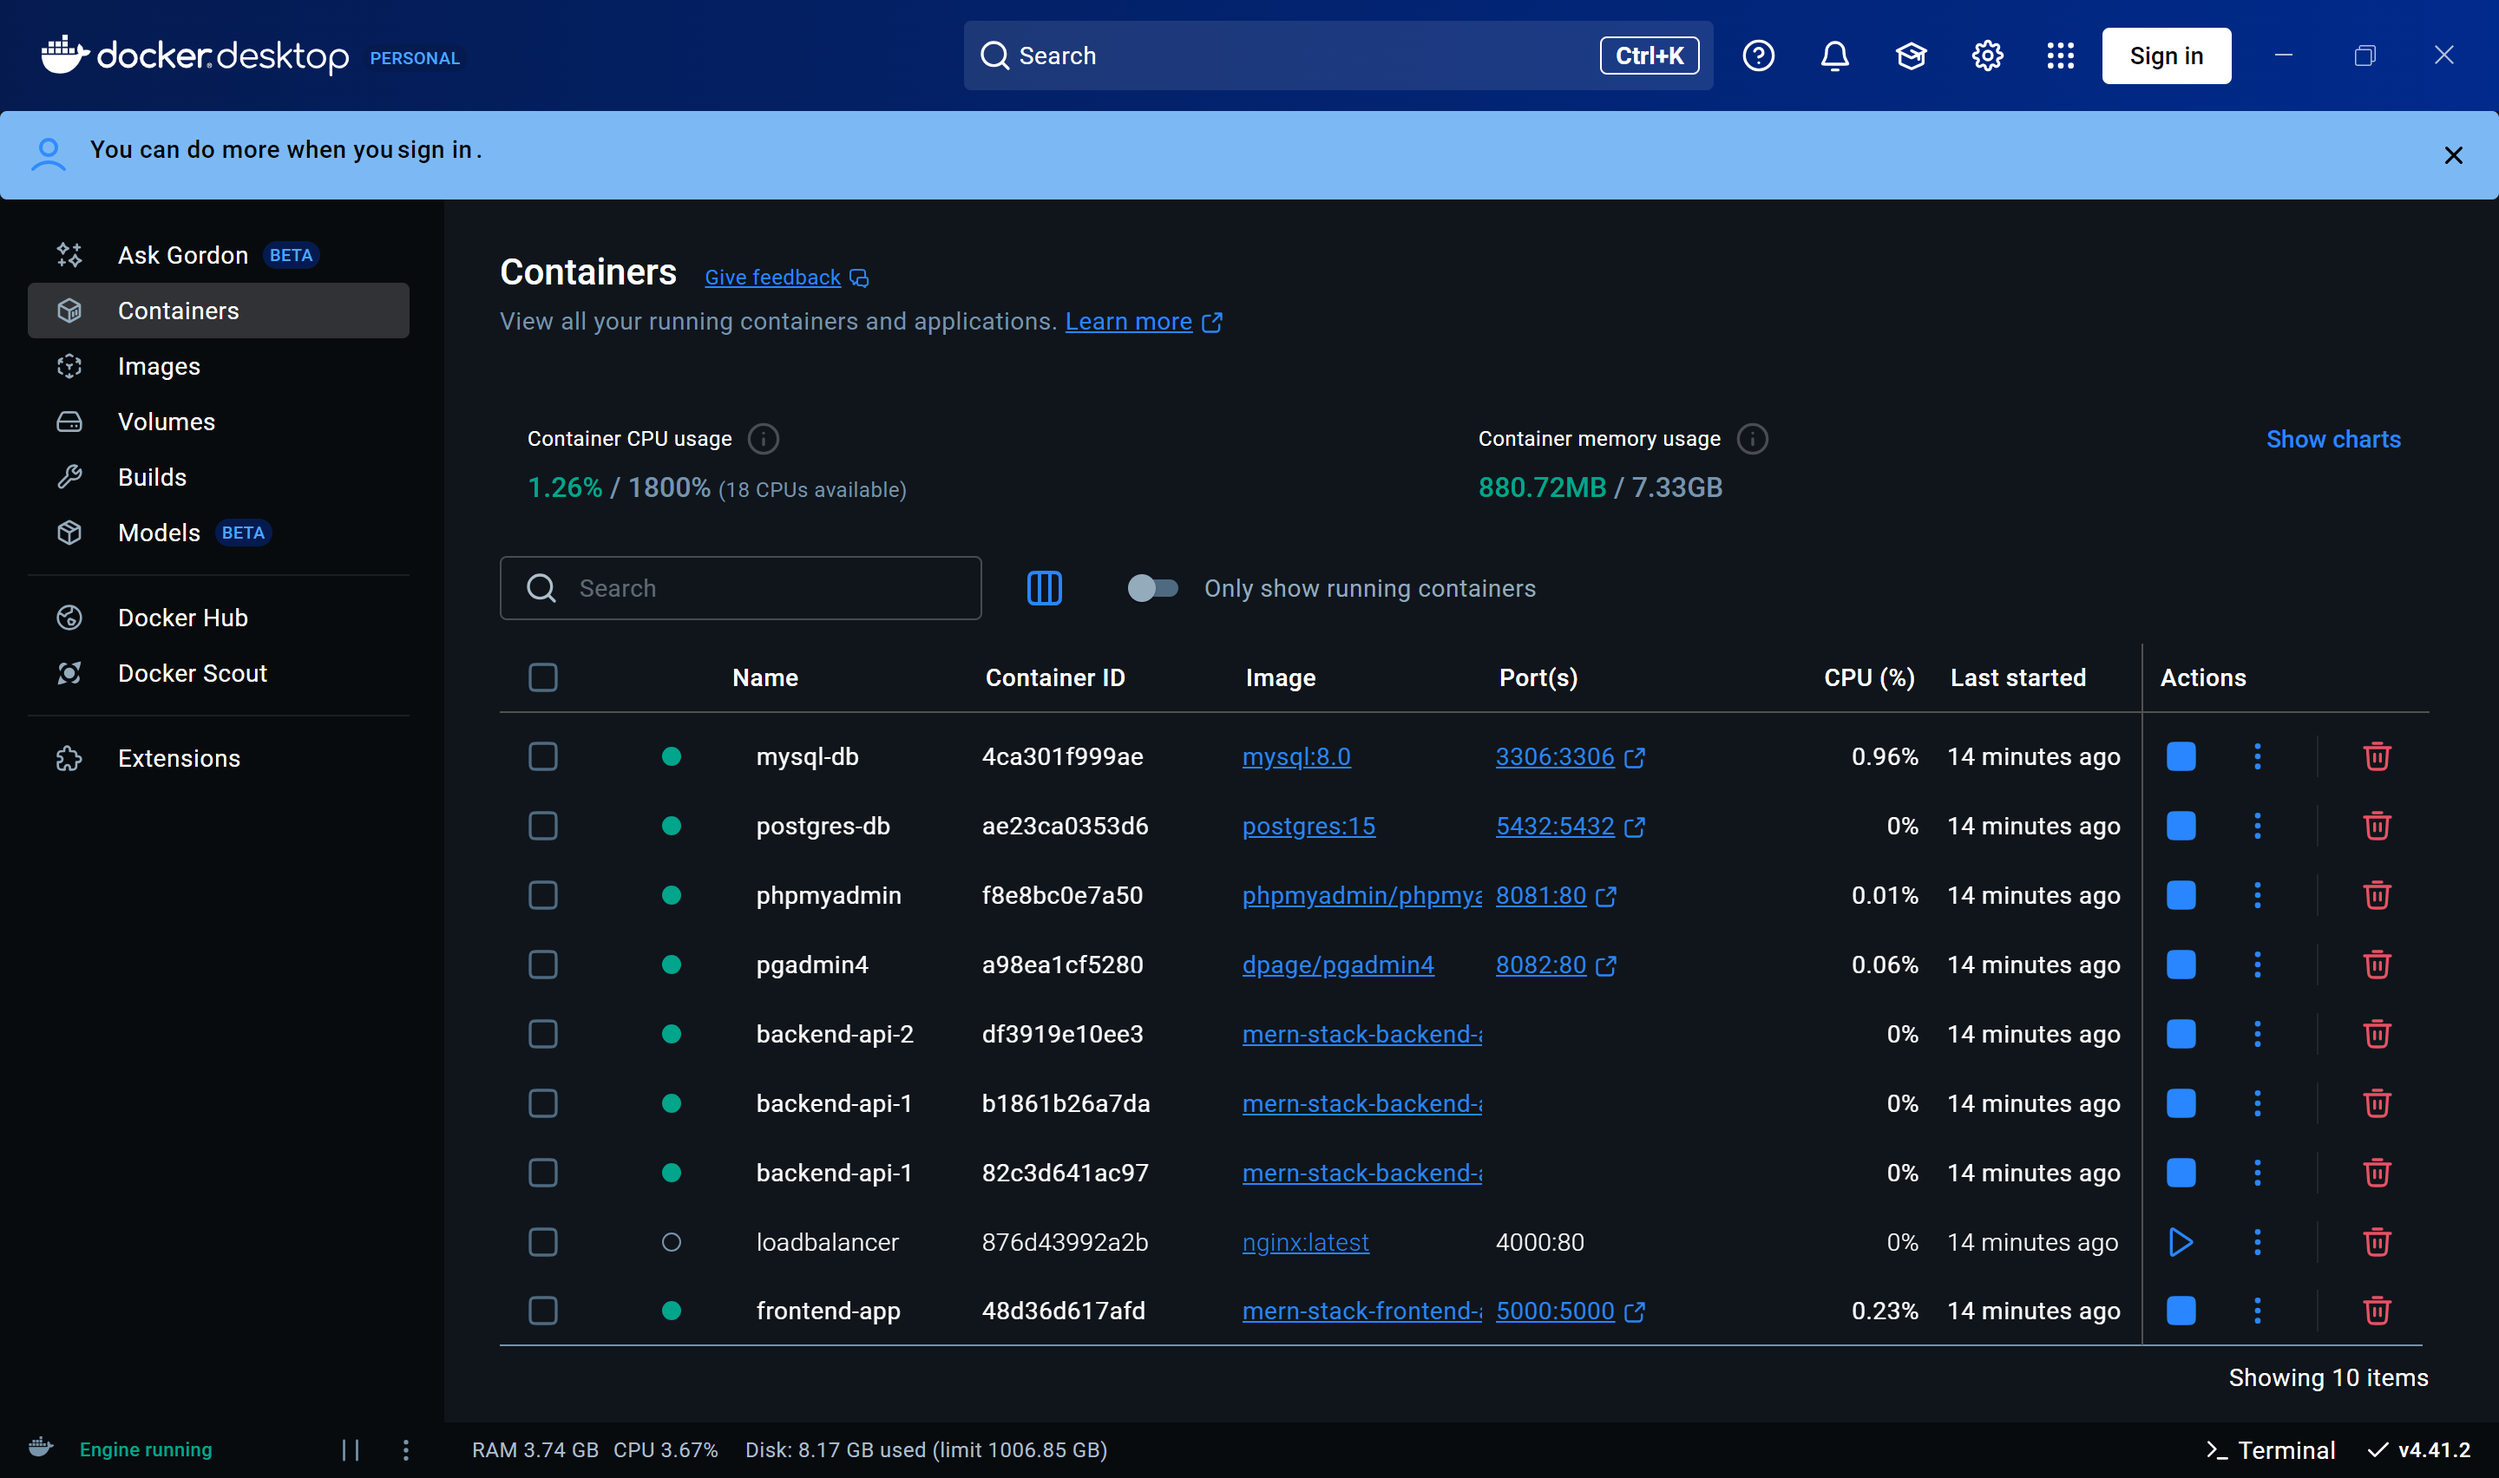
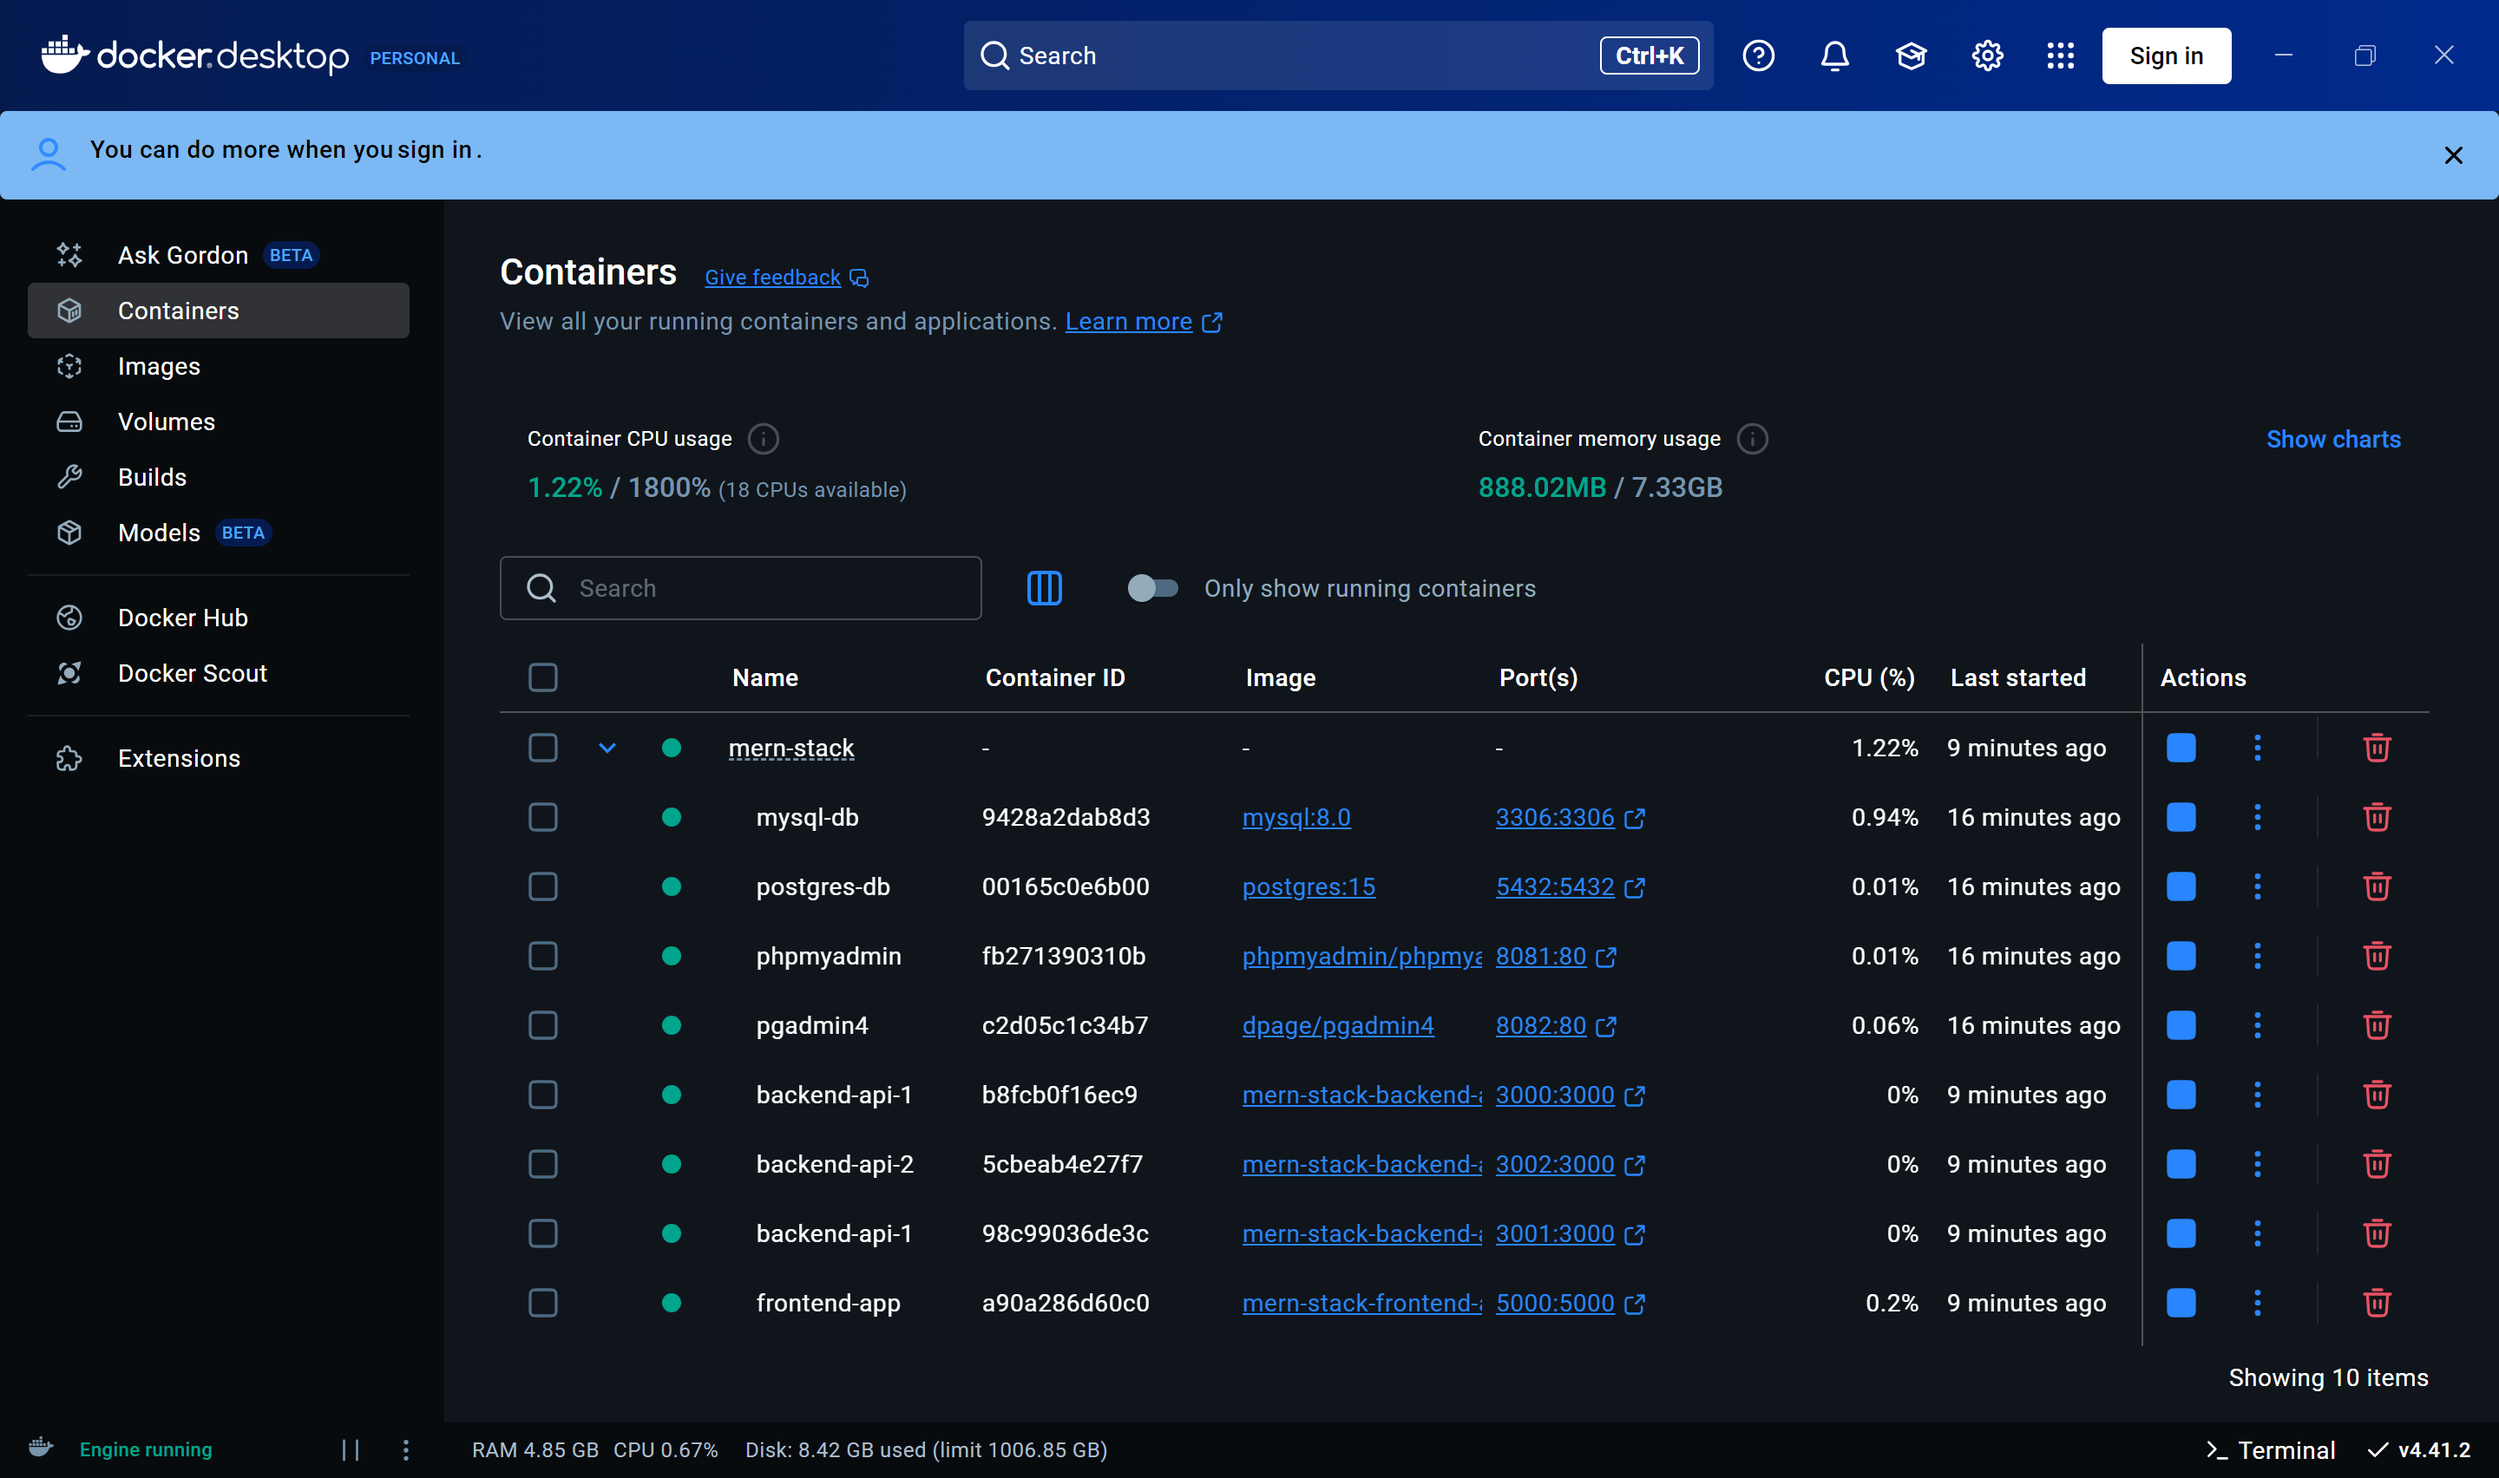
Fixed Backend Api issues and load balancing

diff --git a/mern-stack/backend/seed.js b/mern-stack/backend/seed.js
@@ -1,43 +1,52 @@
-// backend/seed.js
-const mysql = require('mysql2');
+const mysql = require('mysql2/promise');
 
-const connection = mysql.createConnection({
-  host: process.env.DB_HOST || 'mysql-db',
-  user: process.env.DB_USER || 'mernuser',
-  password: process.env.DB_PASSWORD || 'mernpassword',
-  database: process.env.DB_NAME || 'mernappdb',
-});
+async function wait(ms) {
+  return new Promise(resolve => setTimeout(resolve, ms));
+}
 
-const seedData = async () => {
-  const createTableQuery = `
-    CREATE TABLE IF NOT EXISTS users (
-      id INT AUTO_INCREMENT PRIMARY KEY,
-      name VARCHAR(255),
-      email VARCHAR(255)
-    );
-  `;
+const ConnectDB = async () => {
+  let pool;
 
-  const insertDataQuery = `
-    INSERT INTO users (name, email)
-    SELECT * FROM (SELECT 'John Doe', 'john@example.com') AS tmp
-    WHERE NOT EXISTS (
-      SELECT email FROM users WHERE email = 'john@example.com'
-    ) LIMIT 1;
-  `;
-
-  connection.connect(err => {
-    if (err) throw err;
-    console.log('Connected to MySQL for seeding.');
-
-    connection.query(createTableQuery, err => {
-      if (err) throw err;
-      connection.query(insertDataQuery, err => {
-        if (err) throw err;
-        console.log('Seed data inserted!');
-        connection.end();
+  for (let i = 0; i < 10; i++) {  // Try max 10 times
+    try {
+      pool = mysql.createPool({
+        host: process.env.DB_HOST || "mysql-db",
+        user: process.env.DB_USER || "mernuser",
+        password: process.env.DB_PASSWORD || "mernpassword",
+        database: process.env.DB_DATABASE || "mernappdb",
+        waitForConnections: true,
+        connectionLimit: 10,
+        queueLimit: 0,
       });
-    });
-  });
+      
+      // Test connection
+      await pool.query('SELECT 1');
+      
+      console.log('Connected to MySQL!');
+      break;  // Success, exit loop
+
+    } catch (err) {
+      console.log(`MySQL connection failed, retrying in 3 seconds... (${i + 1}/10)`);
+      await wait(3000);
+    }
+  }
+
+  if (!pool) {
+    throw new Error('Unable to connect to MySQL after multiple retries');
+  }
+
+  // Create table if not exists
+  await pool.query(
+    `CREATE TABLE IF NOT EXISTS \`${process.env.DB_TABLENAME}\` (
+      id INT AUTO_INCREMENT PRIMARY KEY,
+      name VARCHAR(50) NOT NULL,
+      email VARCHAR(100) NOT NULL UNIQUE,
+      created_at TIMESTAMP DEFAULT CURRENT_TIMESTAMP
+    )`
+  );
+
+  console.log(`Table '${process.env.DB_TABLENAME}' is ready.`);
+  return pool;
 };
 
-seedData();
+module.exports = ConnectDB;
